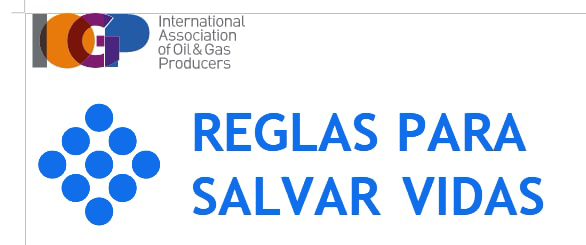
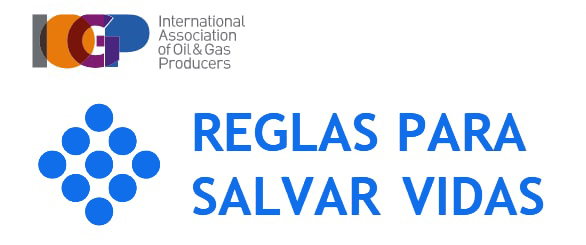
final touches

Changed region(s): [[0.0307, 0.0286, 1.0, 0.0857]]

diff --git a/index.html b/index.html
@@ -81,7 +81,7 @@
             </ul>
           <li><a class="nav-link scrollto" href="prevencion-danos.html">Prevención de daños</a></li>
           <li><a class="nav-link scrollto " href="emergencia.html">Emergencias</a></li>
-          <li><a class="nav-link scrollto" href="seguridad.html">Seguridad y cuidado ambiental</a></li>
+          <li><a class="nav-link scrollto" href="seguridad.html">Seguridad y cuidados</a></li>
           <li><a class="nav-link scrollto" href="rse.html">RSE</a></li>
           <li><a class="nav-link scrollto" href="#contacto">Contacto</a></li>
           <li><a class="nav-link scrollto d-none" href="#tarifas">Tarifas comerciales</a></li>
@@ -173,7 +173,7 @@
               <div class="icon"><i class="bx bx-file"></i></div>
               <h4 class="title"><a href="">PREVENCIÓN DE DAÑOS</a></h4>
               <p class="description">Si planifica una obra o excavación contáctenos</p>
-              <div>
+              <div class="video">
                 <a href="https://youtu.be/tukBUm1ptB4" class="glightbox btn-watch-video"><span class="bi bi-play-circle-fill"><span> Observe</a>
               </div>
                
@@ -418,42 +418,42 @@
          
          
          
-            <div class="col-lg-6" style="height: 100%; padding: 0 auto;">
-              <div class="d-flex w-100 mb-3 justify-content-center align-items-center">
+            <div class="col-lg-6">
+              <div class=" d-flex flex-row justify-content-between mt-3">
               <div class="city"> GCDS -  Costa Sur</div>
-              <div class="arrow-right"></div>
+             
               <div class="icono"><i class='bx bxs-file-pdf'>
                 <a href="https://www.gcds.com.uy/pdf/gcds_costasur.pdf" target="blank"></a>
                </i></div>
               </div>
-              <div class="d-flex w-100 mb-3 justify-content-center align-items-center">
+              <div class=" d-flex flex-row justify-content-between mt-3" >
                <div class="city">GCDS - Montevideo</div>
-              <div class="arrow-right"></div>
+              
               <div class="icono"><i class='bx bxs-file-pdf'>
                 <a href="https://www.gcds.com.uy/pdf/gcds_montevideo.pdf" target="blank"></a>
               </i></div>
               </div>
-              <div class="d-flex w-100 mb-3 justify-content-center align-items-center">
+              <div class="  d-flex flex-row justify-content-between mt-3">
                <div class="city">GCDS - Canelones</div>
-              <div class="arrow-right"></div>
+              
               <div class="icono">
                 <i class='bx bxs-file-pdf'>
                 <a href="https://www.gcds.com.uy/pdf/gcds_canelones.pdf" target="blank"></a>
                 </i>
               </div>
               </div>
-              <div class="d-flex w-100 mb-3 justify-content-center align-items-center">
+              <div class="  d-flex flex-row justify-content-between mt-3">
                <div class="city">GCDS - San José</div>
-              <div class="arrow-right"></div>
+              
               <div class="icono">
                 <i class='bx bxs-file-pdf'>
                 <a href="https://www.gcds.com.uy/pdf/gcds_sanjose.pdf" target="blank"></a>
                 </i>
               </div>
               </div>
-              <div class="d-flex w-100 mb-3 justify-content-center align-items-center">
+              <div class=" d-flex flex-row justify-content-between mt-3">
                <div class="city">GCDS - Colonia</div>
-              <div class="arrow-right"></div>
+              
               <div class="icono">
                 <i class='bx bxs-file-pdf'>
                  <a href="https://www.gcds.com.uy/pdf/gcds_colonia.pdf" target="blank"> </a> 
@@ -462,7 +462,7 @@
           </div>
         </div> 
       </div>
-          <main class="container gallery pt-5" data-aos="fade-up" data-aos-duration="1000" style="margin-top: 200px; margin-bottom: 150px;">
+          <main class="container gallery pt-5" data-aos="fade-up" data-aos-duration="1000" style="margin-top: 100px; margin-bottom: 150px;">
             <div class="section-title">
             <h3> Galeria</he>
           </div>

diff --git a/seguridad.html b/seguridad.html
@@ -86,7 +86,7 @@
            </ul>
          <li><a class="nav-link scrollto" href="prevencion-danos.html">Prevención de daños</a></li>
          <li><a class="nav-link scrollto " href="emergencia.html">Emergencias</a></li>
-         <li><a class="nav-link scrollto" href="seguridad.html">S.S.M.A</a></li>
+         <li><a class="nav-link scrollto" href="seguridad.html">Seguridad y cuidados</a></li>
          <li><a class="nav-link scrollto" href="rse.html">RSE</a></li>
          <li><a class="nav-link scrollto" href="index.html#contacto">Contacto</a></li>
          <li><a class="nav-link scrollto d-none" href="#tarifas">Tarifas comerciales</a></li>
@@ -120,7 +120,7 @@
       <div class="col-lg-6 pt-4 pt-lg-0 content d-flex flex-column justify-content-center" data-aos="fade-up" data-aos-duration="1000">
         <img class="img-fluid" src="assets/img/seguridad y cuidado/DSC_0588.png" alt="">
       </div>
-      <div class="col-lg-5 offset-1 d-flex justify-content-center align-items-center h-75">
+      <div class="col-lg-6 d-flex justify-content-center align-items-center">
         <article>
           Conducimos nuestros negocios de manera responsable. Cada integrante del equipo de GCDS trabaja para alcanzar las mejores prácticas internacionales de seguridad, medio ambiente y calidad.
 Reconocemos que la seguridad es responsabilidad de todos y que cada uno tiene la obligación de intervenir para prevenir conductas inseguras y reforzar buenas conductas.
@@ -178,10 +178,10 @@ Nuestras principales actividades comprenden:
       <img src="assets/img/seguridad y cuidado/IMG_20191114_135159.jpg" class="img-fluid pt-5" alt="">
     </div>
   </div>
-    <section class="reglas">
+    <section id="reglas">
   <div class="row mt-4 mb-4">
     <div class="col-lg-5">
-      <img class="img-fluid reglas" src="assets/img/seguridad y cuidado/Reglas.jpg" alt="">
+       <a href="https://www.iogp.org/"><img class="img-fluid reglas" src="assets/img/seguridad y cuidado/Reglas.jpg" alt=""> </a>
     </div>
     <div class="col-lg-7 d-flex justify-content-center align-items-center">
       <article>   Nos adherimos a las Reglas salvavidas aplicables a toda industria del IOGP (International association of Oil and Gas Producers), 
@@ -200,11 +200,11 @@ Nuestras principales actividades comprenden:
      </div>
    </div>
    <div class="row mt-5 mb-5" id="tercero">
-     <div class="col-lg-6" data-aos="fade-right" data-aos-duration="1000" style="height: 100%;">
- <img class="img-fluid imagenes" src="assets/img/seguridad y cuidado/DSC_0968.jpg" alt="">
+     <div class="col-lg-6" data-aos="fade-right" data-aos-duration="1000">
+ <img class="img-fluid" src="assets/img/seguridad y cuidado/DSC_0968.jpg" alt="">
      </div>
-     <div class="col-lg-6" data-aos="fade-left" data-aos-duration="1000" style="height: 100%;">
-      <img class="img-fluid imagenes" src="assets/img/seguridad y cuidado/DSC_1054.jpg" alt="">
+     <div class="col-lg-6" data-aos="fade-left" data-aos-duration="1000">
+      <img class="img-fluid" src="assets/img/seguridad y cuidado/DSC_1054.jpg" alt="">
        
     </div>
 
@@ -215,8 +215,8 @@ Nuestras principales actividades comprenden:
      </div>
    </div>
    <div class="row">
-     <div class="col-lg-12">
-       <img src="assets/img/seguridad y cuidado/logoCompany.png" alt="">
+     <div class="col-lg-12"  data-aos="fade-up" data-aos-duration="1000">
+       <img class="img-fluid" src="assets/img/seguridad y cuidado/logoCompany.png" alt="">
      </div>
    </div>
    

diff --git a/assets/css/style.css b/assets/css/style.css
@@ -808,7 +808,7 @@ section {
 # Featured Services
 --------------------------------------------------------------*/
 .featured-services .icon-box {
-  padding: 30px;
+  padding: 40px;
   position: relative;
   overflow: hidden;
   background: #fff;
@@ -865,6 +865,9 @@ section {
   margin-bottom: 0;
   color: #000;
 }
+.featured-services .video {
+  padding-top: 50px;
+}
 .featured-services .btn-watch-video {
   font-size: 13px;
   transition: 0.5s;
@@ -905,7 +908,8 @@ section {
   display: flex;
   justify-content: center;
   align-items: center;
-  margin: 10px 0;
+  
+  padding: 20px 0;
   
 }
 .icon-box:hover h3 {
@@ -1159,9 +1163,7 @@ Mision, vision y valores
   display: flex;
   min-width: 20rem;
   overflow: hidden;
-  /* border-radius: clamp(0px, (40vw - var(--full-width)), var(--space));
-  box-shadow: rgb(40, 40, 40, 0.1) 0px 2px 3px, rgb(20, 20, 20, 0.2) 0px 5px 8px,
-    rgb(0, 0, 0, 0.25) 0px 10px 12px; */
+
 }
 
 .card > img {
@@ -1339,7 +1341,7 @@ Mision, vision y valores
   object-fit: cover;
   object-position: center right;
 }
-.arrow-right
+/* .arrow-right
 {
   display: block;
   margin: 0  auto;
@@ -1362,14 +1364,20 @@ Mision, vision y valores
   transform: rotate(-45deg) translate(15px, 4px);
   left: 0;
   top: 0;
+} */
+.city {
+  display: flex;
+
+  justify-content: baseline;
 }
 .icono {
   font-size: 30px;
   color: brown;
-  border-radius: 5px;
-  padding-left: 10px;
+ display: flex;
+ 
   cursor: pointer;
-  text-align: center;
+
+
 }
 /*--------------------------------------------------------------
 # partners
@@ -1872,7 +1880,6 @@ Mision, vision y valores
 .wrapper {
   display: flex;
   flex-direction: column;
-
   align-items: center;
 background: #f6f9fe;
 color: #000;
@@ -1950,9 +1957,6 @@ height: 70px;
 }
 }
 
-#damage {
-  background-color: rgb(238, 255, 224);
-}
 .damage {
   display: flex;
   flex-direction: column;
@@ -1966,6 +1970,7 @@ height: 70px;
   border-radius: 8px;
   z-index: 1;
   height: 100%;
+  width: 100%;
   
  
 }
@@ -2173,6 +2178,10 @@ Seguridad y cuidado ambiental
   color: rgb(95, 190, 220);
   text-align: start;
 }
+#reglas {
+  border-bottom: 3px solid darkgray;
+  margin-bottom: 100px;
+}
 .img-fluid.reglas {
   max-width: 80% !important;
 }
@@ -2186,7 +2195,7 @@ Seguridad y cuidado ambiental
 #seguridad article {
   line-height: 1.5;
   font-size: 18px;
-  padding: 0 10px;
+  
 }
 #second {
   margin: 100px 0;
@@ -2210,8 +2219,4 @@ Seguridad y cuidado ambiental
   color: #106eea;
 }
 
-#tercero.imagenes {
-  width: 550px;
-  height: 370px;
-}
 

diff --git a/prevencion-danos.html b/prevencion-danos.html
@@ -86,7 +86,7 @@
             </ul>
           <li><a class="nav-link scrollto" href="prevencion-danos.html">Prevención de daños</a></li>
           <li><a class="nav-link scrollto " href="emergencia.html">Emergencias</a></li>
-          <li><a class="nav-link scrollto" href="seguridad.html">S.S.M.A</a></li>
+          <li><a class="nav-link scrollto" href="seguridad.html">Seguridad y cuidados</a></li>
           <li><a class="nav-link scrollto" href="#rse.html">RSE</a></li>
           <li><a class="nav-link scrollto" href="index.html#contacto">Contacto</a></li>
           <li><a class="nav-link scrollto d-none" href="#tarifas">Tarifas comerciales</a></li>
@@ -230,7 +230,7 @@
       <div class="container" data-aos="fade-up" data-aos-duration="1000">
 
         <div class="row d-flex justify-content-center">
-          <div class="col-lg-3 d-flex align-items-stretch mb-5 mb-lg-0">
+          <div class="col-lg-4 d-flex align-items-stretch mb-5 mb-lg-0">
             <div class=" damage" data-aos="fade-up" data-aos-delay="100">
               <div class="icon"><i class='bx bxs-error-alt'></i></div>
               <h4 class="title"><a href="">¿PLANIFICA UNA OBRA?</a></h4>
@@ -242,7 +242,7 @@
           </div>
         
 
-          <div class="col-lg-3 d-flex align-items-stretch mb-5 mb-lg-0">
+          <div class="col-lg-4 d-flex align-items-stretch mb-5 mb-lg-0">
             <div class="damage" data-aos="fade-up" data-aos-delay="200">
               <div class="icon"><i class='bx bxs-error-alt'></i></div>
               <h4 class="title"><a href="">PREVENCIÓN DE DAÑOS</a></h4>
@@ -258,7 +258,7 @@
             
           
 
-          <div class="col-lg-3 d-flex align-items-stretch mb-5 mb-lg-0">
+          <div class="col-lg-4 d-flex align-items-stretch mb-5 mb-lg-0">
             <div class="damage" data-aos="fade-up" data-aos-delay="300">
               <div class="icon"><i class="bx bxs-paper-plane"></i></div>
               <h4 class="title"><a href="">FORMULARIO WEB</a></h4>

diff --git a/rse.html b/rse.html
@@ -87,7 +87,7 @@
             </ul>
           <li><a class="nav-link scrollto" href="prevencion-danos.html">Prevención de daños</a></li>
           <li><a class="nav-link scrollto " href="emergencia.html">Emergencias</a></li>
-          <li><a class="nav-link scrollto" href="#ssma">S.S.M.A</a></li>
+          <li><a class="nav-link scrollto" href="#ssma">Seguridad y cuidados</a></li>
           <li><a class="nav-link scrollto" href="#rse.html">RSE</a></li>
           <li><a class="nav-link scrollto" href="index.html#contacto">Contacto</a></li>
           <li><a class="nav-link scrollto d-none" href="#tarifas">Tarifas comerciales</a></li>
